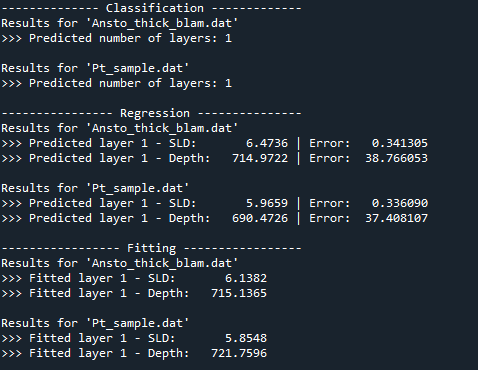
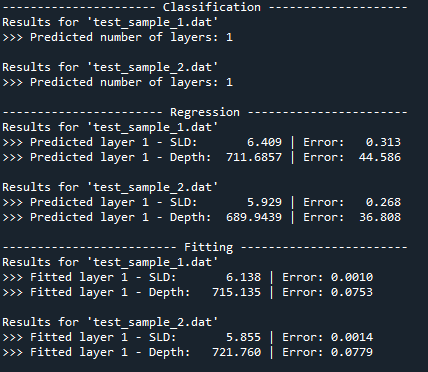
Added errors in fitted parameters

diff --git a/neutron-net/pipeline.py b/neutron-net/pipeline.py
@@ -399,8 +399,8 @@ class Pipeline:
             filename = os.path.basename(dat_files[curve])
             print("Results for '{}'".format(filename))
             for i in range(layer_predictions[curve]): #Iterate over each layer
-                print(">>> Predicted layer {0} - SLD:   {1:10.4f} | Error: {2:10.6f}".format(i+1, sld_predictions[curve][i], sld_errors[curve][i]))
-                print(">>> Predicted layer {0} - Depth: {1:10.4f} | Error: {2:10.6f}".format(i+1, depth_predictions[curve][i], depth_errors[curve][i]))
+                print(">>> Predicted layer {0} - SLD:   {1:9.3f} | Error: {2:7.3f}".format(i+1, sld_predictions[curve][i], sld_errors[curve][i]))
+                print(">>> Predicted layer {0} - Depth: {1:9.4f} | Error: {2:7.3f}".format(i+1, depth_predictions[curve][i], depth_errors[curve][i]))
 
             #Create a refnx model with the predicted number of layers, SLDs and depths.
             model = Model(dat_files[curve], layer_predictions[curve], sld_predictions[curve], depth_predictions[curve], xray)
@@ -426,13 +426,14 @@ class Pipeline:
             The layer predictions for each file along with Numpy image filenames.
 
         """
-        print("-------------- Classification -------------")
+        print("---------------------- Classification --------------------")
         #Convert .dat files to images, ready for passing as input to the classifier.
         npy_image_filenames = Pipeline.dat_files_to_npy_images(dat_files, save_path)
         class_labels = dict(zip(npy_image_filenames, np.zeros((len(npy_image_filenames), 1))))
 
         classifier_loader = DataLoaderClassification(class_labels, DIMS, CHANNELS)
         classifier = load_model(classifier_path)
+        #return [1,1], npy_image_filenames
         return np.argmax(classifier.predict(classifier_loader, verbose=1), axis=1)+1, npy_image_filenames #Make predictions
 
     @staticmethod
@@ -452,7 +453,7 @@ class Pipeline:
             SLD and depth predictions along with the errors for each.
 
         """
-        print("---------------- Regression ---------------")
+        print("----------------------- Regression -----------------------")
         # Dictionary to pair image with "depth", "sld", "class" values
         values_labels = {}
         for filename, layer_prediction in zip(npy_image_filenames, layer_predictions):
@@ -483,15 +484,16 @@ class Pipeline:
             models (dict): a dictionary of refnx models, index by filename.
 
         """
-        print("----------------- Fitting -----------------")
+        print("------------------------- Fitting ------------------------")
         for filename in models.keys(): #Iterate over each model and fit.
             print("Results for '{}'".format(filename))
             model = models[filename]
             model.fit()
             model.plot_objective(prediction=False)
+
             for i, component in enumerate(model.structure.components[1:-1]): #Iterate over each layer
-                print(">>> Fitted layer {0} - SLD:   {1:10.4f}".format(i+1, component.sld.real.value))
-                print(">>> Fitted layer {0} - Depth: {1:10.4f}".format(i+1, component.thick.value))
+                print(">>> Fitted layer {0} - SLD:   {1:9.3f} | Error: {2:6.4f}".format(i+1, component.sld.real.value, component.sld.real.stderr))
+                print(">>> Fitted layer {0} - Depth: {1:9.3f} | Error: {2:6.4f}".format(i+1, component.thick.value,    component.thick.stderr))
             print()
 
     @staticmethod
@@ -641,7 +643,7 @@ if __name__ == "__main__":
     data_path = "./data/real"
     classifier_path = load_path + "/classifier/full_model.h5"
     regressor_paths = {i: load_path + "/{}-layer-regressor/full_model.h5".format(LAYERS_STR[i]) for i in range(1, 4)}
-    models = Pipeline.run(data_path, data_path, classifier_path, regressor_paths, fit=False, n_iter=100, xray=xray)
+    models = Pipeline.run(data_path, data_path, classifier_path, regressor_paths, fit=True, n_iter=100, xray=xray)
     
     #Make sure to set fit to false otherwise fits are plotted.
     plot_objective_dual(models['test_sample_1.dat'].objective, models['test_sample_2.dat'].objective)
